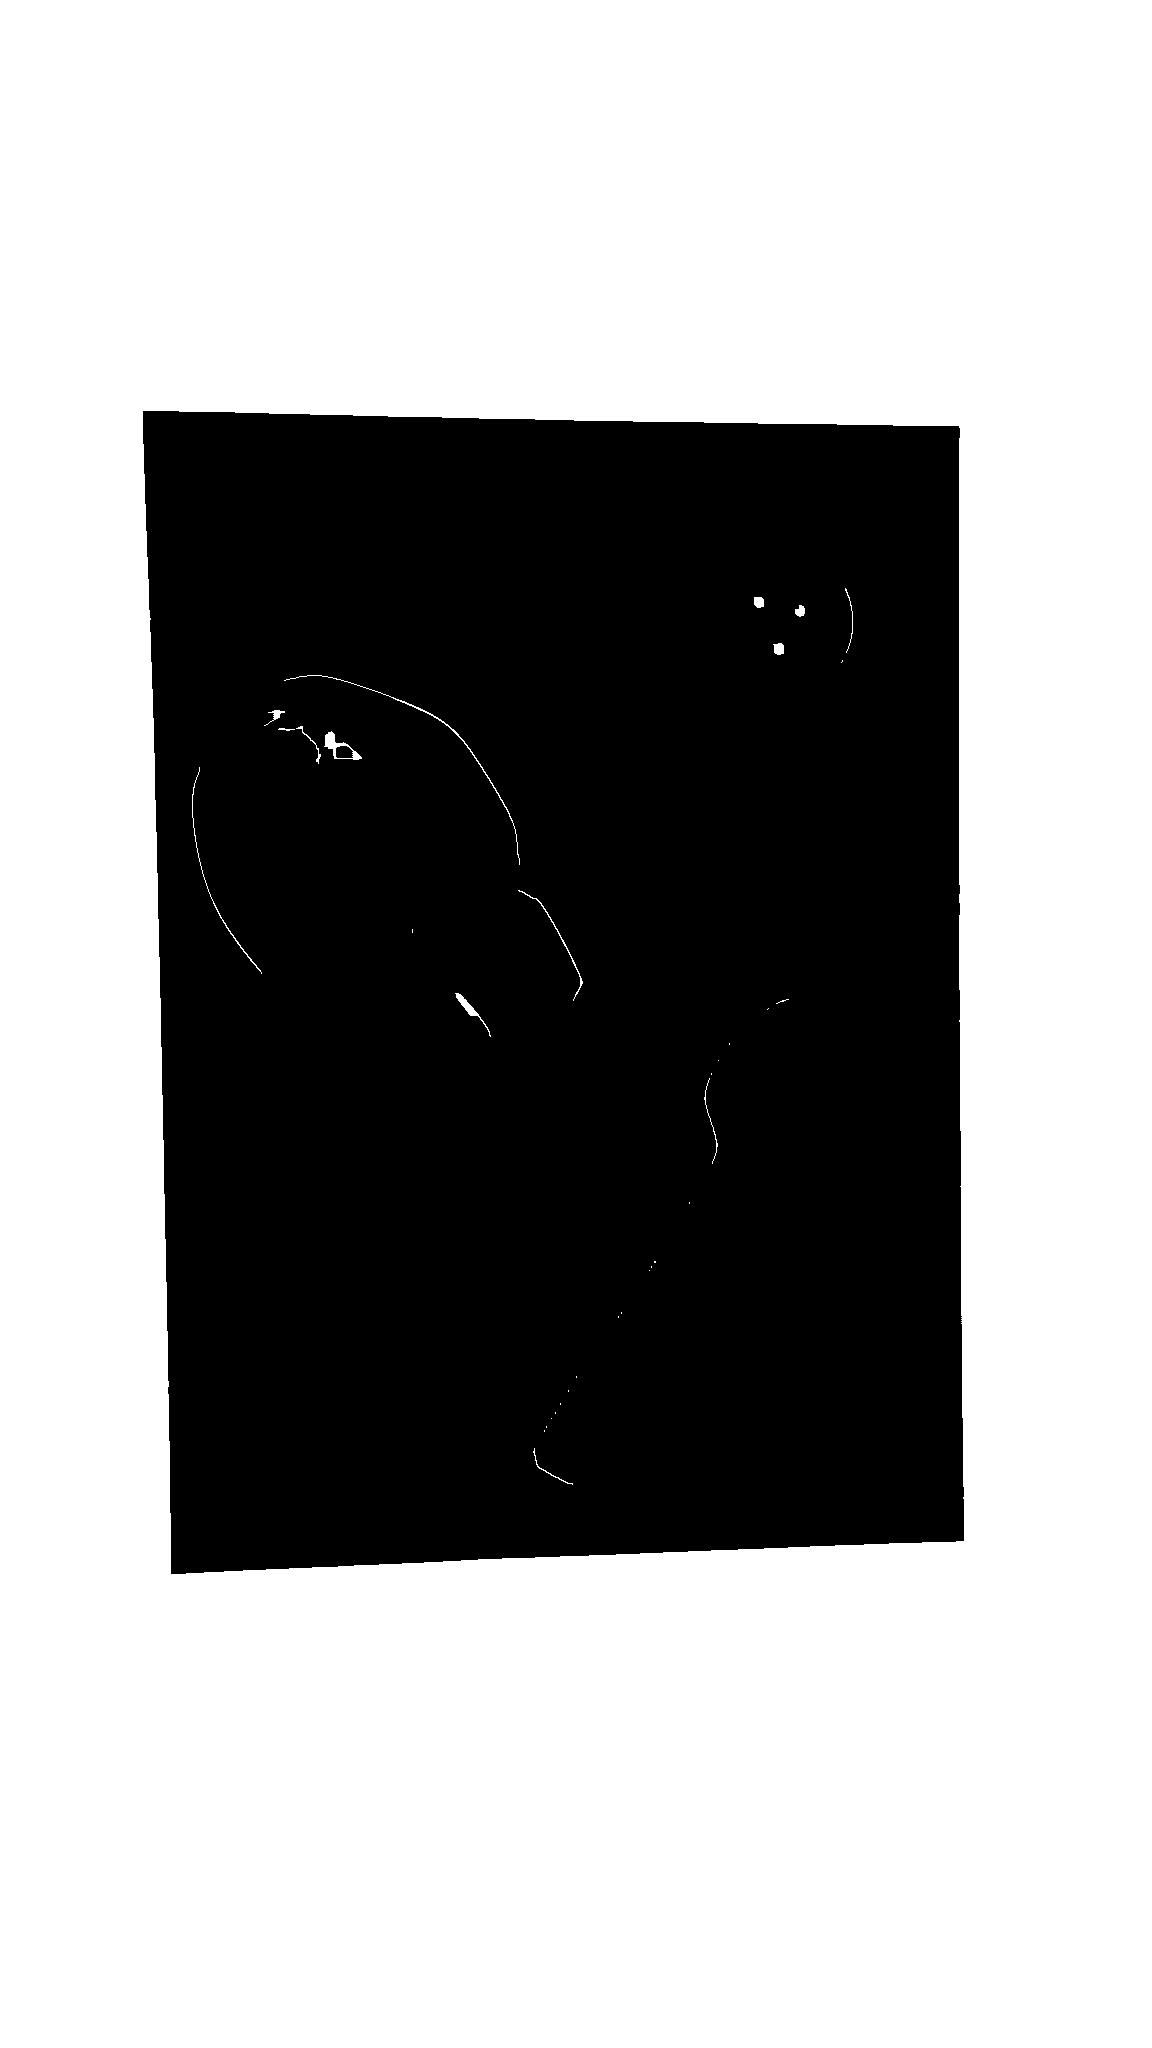
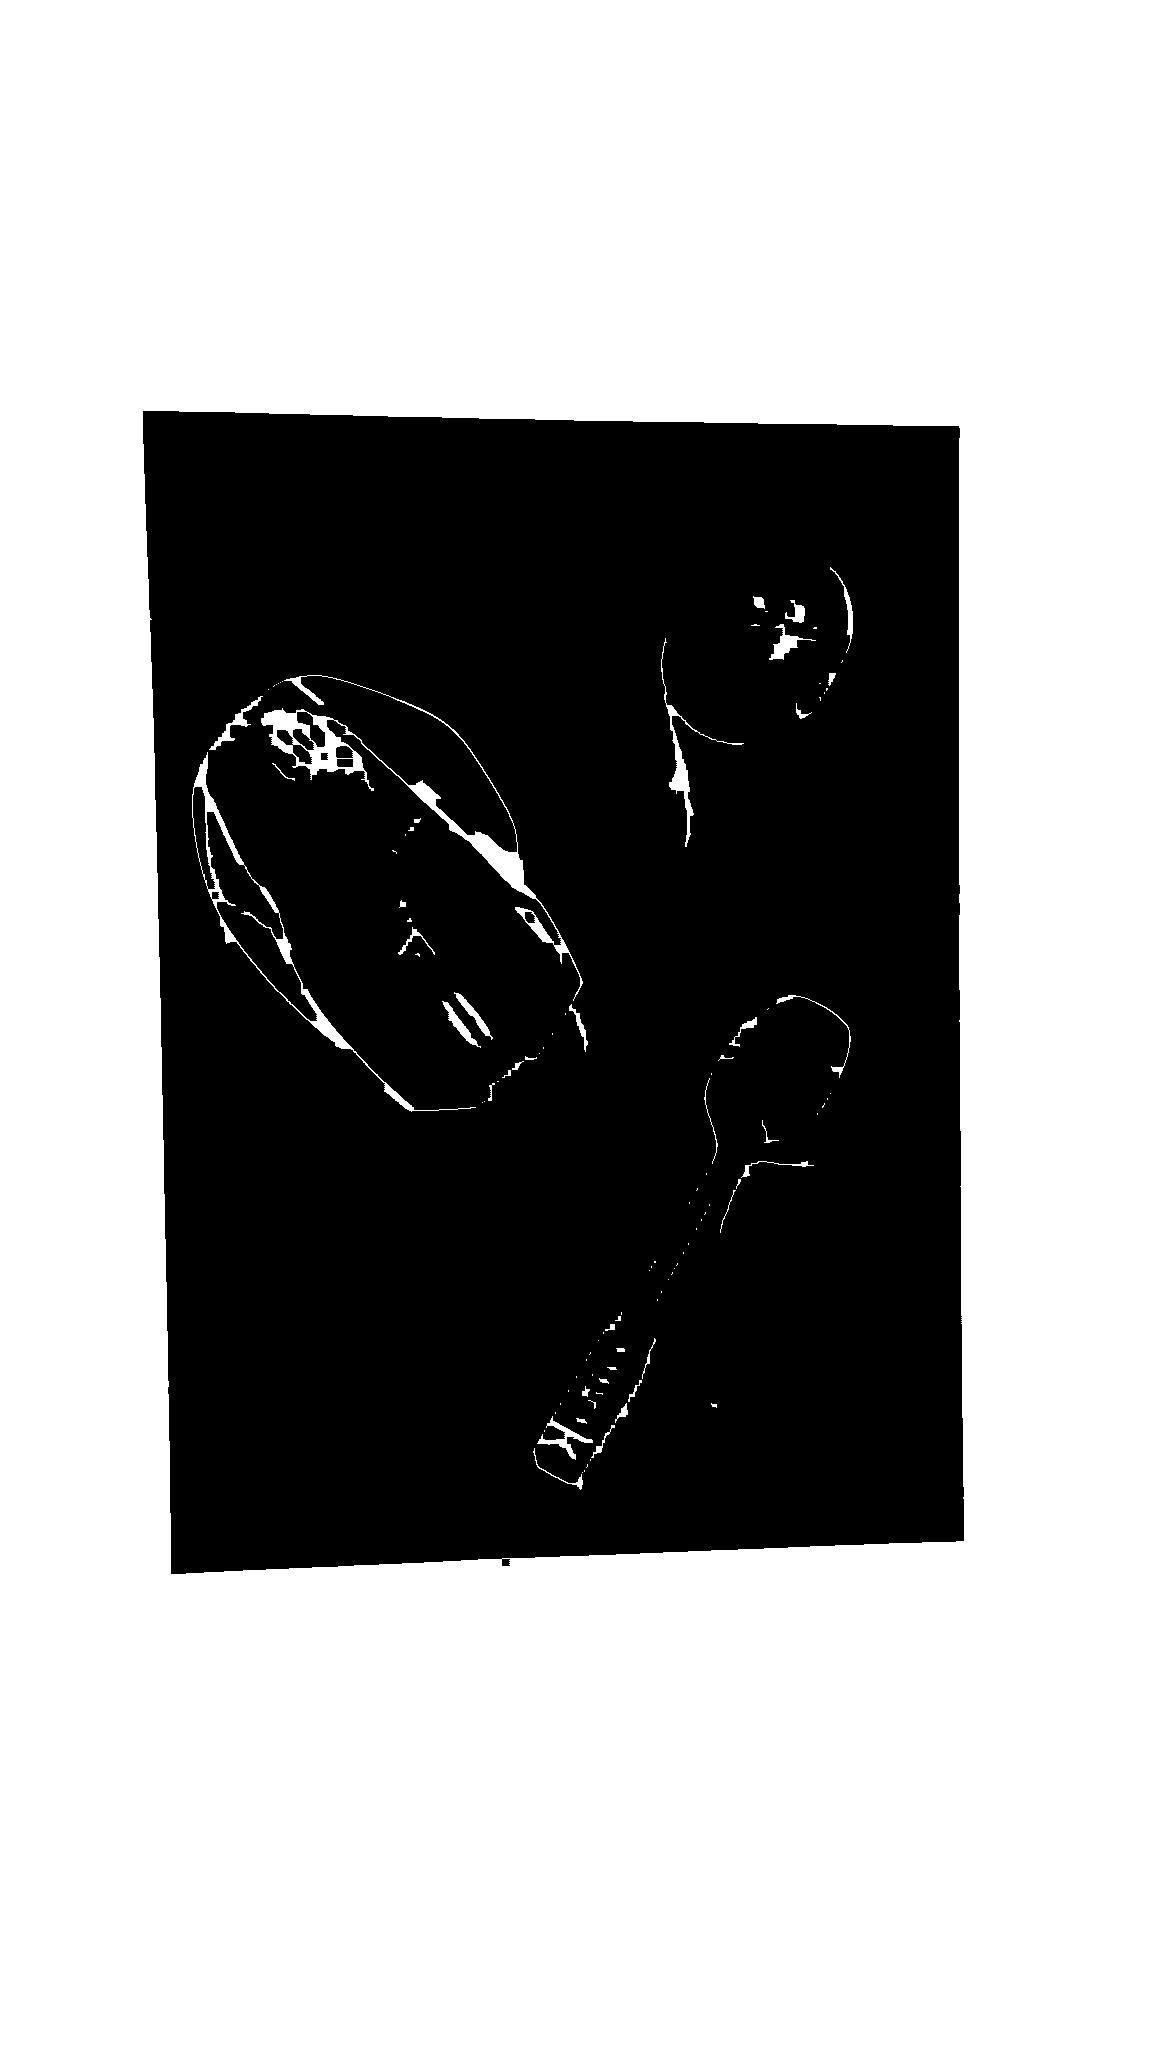
invariant (failed)

diff --git a/src/main/java/pl/ipt/ShadowRemover/ShadowRemover.java b/src/main/java/pl/ipt/ShadowRemover/ShadowRemover.java
@@ -1,0 +1,138 @@
+package pl.ipt.ShadowRemover;
+
+import pl.ipt.ImageConverter.ImageConverter;
+
+import javax.imageio.ImageIO;
+import java.awt.*;
+import java.awt.image.BufferedImage;
+import java.io.FileOutputStream;
+import java.util.Arrays;
+
+import static pl.ipt.ImageConverter.ImageConverter.IntArray2BufImg;
+
+public class ShadowRemover {
+    private BufferedImage image;
+    private int width;
+    private int height;
+    private int[] pixels;
+
+    private BufferedImage reflectance;
+
+
+    public ShadowRemover(BufferedImage image) {
+        this.image = image;
+        this.width = image.getWidth();
+        this.height = image.getHeight();
+        this.pixels = ImageConverter.BufImg2IntArray(image);
+        this.reflectance = RgbToReflectance();
+    }
+
+    public BufferedImage getImage() {
+        return image;
+    }
+
+    public void setImage(BufferedImage image) {
+        this.image = image;
+    }
+
+    public int getWidth() {
+        return width;
+    }
+
+    public void setWidth(int width) {
+        this.width = width;
+    }
+
+    public int getHeight() {
+        return height;
+    }
+
+    public void setHeight(int height) {
+        this.height = height;
+    }
+
+    public int[] getPixels() {
+        return pixels;
+    }
+
+    public void setPixels(int[] pixels) {
+        this.pixels = pixels;
+    }
+
+    public BufferedImage getReflectance() {
+        return reflectance;
+    }
+
+    public void setReflectance(BufferedImage reflectance) {
+        this.reflectance = reflectance;
+    }
+
+    public BufferedImage CalcInvariant() {
+        int[] pixelsCp = new int[pixels.length];
+        double[] pixelsInv = new double[pixels.length];
+
+//        System.arraycopy(pixels, 0, pixelsCp, 0, pixels.length);
+
+        double max = 0.0;
+        double min = 1.0;
+        double alpha = 0.9;
+
+
+        double[] pixelsRed = new double[pixels.length];
+        double[] pixelsGreen = new double[pixels.length];
+        double[] pixelsBlue = new double[pixels.length];
+        for (int i = 0; i < pixels.length; i++) {
+            Color c = new Color(pixels[i]);
+            pixelsRed[i] = Math.max(c.getRed(),1.0);
+            pixelsGreen[i] = Math.max(c.getGreen(),1.0);
+            pixelsBlue[i] = Math.max(c.getBlue(),1.0);
+
+//            pixelsInv[i] = Math.log(pixelsGreen[i]) - alpha*Math.log(pixelsBlue[i]) - (1-alpha)*Math.log(pixelsRed[i]);
+            pixelsInv[i] = Math.log(pixelsGreen[i]) - alpha*Math.log(pixelsBlue[i]) - (1.0-alpha)*Math.log(pixelsRed[i]);
+//            pixelsInv[i] = 0.5 + Math.log(pixelsGreen[i]/255) - alpha*Math.log(pixelsRed[i]/255) - (1-alpha)*Math.log(pixelsBlue[i]/255);
+//            pixelsInv[i] = 0.5 + Math.log(pixelsBlue[i]/255) - alpha*Math.log(pixelsRed[i]/255) - (1-alpha)*Math.log(pixelsGreen[i]/255);
+//            pixelsInv[i] = 0.5 + Math.log(pixelsBlue[i]/255) - alpha*Math.log(pixelsGreen[i]/255) - (1-alpha)*Math.log(pixelsRed[i]/255);
+//            pixelsInv[i] = 0.5 + Math.log(pixelsRed[i]/255) - alpha*Math.log(pixelsBlue[i]/255) - (1-alpha)*Math.log(pixelsGreen[i]/255);
+//            pixelsInv[i] = 0.5 + Math.log(pixelsRed[i]/255) - alpha*Math.log(pixelsGreen[i]/255) - (1-alpha)*Math.log(pixelsBlue[i]/255);
+
+//            pixelsInv[i] = Math.log(pixelsGreen[i]) +  Math.log(pixelsRed[i]) + Math.log(pixelsBlue[i]);
+
+//            System.out.println(0.1*Math.log(pixelsRed[i]/255));
+
+            if (pixelsInv[i] > max) max = pixelsInv[i];
+            if (pixelsInv[i] < min) min = pixelsInv[i];
+
+
+        }
+
+        for (int i = 0; i < pixels.length; i++) {
+            pixelsInv[i] = (pixelsInv[i] - min)/(max - min);
+            int grey = (int) (pixelsInv[i]*255);
+            pixelsCp[i] = new Color(grey,grey,grey).getRGB();
+        }
+        return IntArray2BufImg(pixelsCp, width, height);
+    }
+
+    private BufferedImage RgbToReflectance() {
+        int k = 0;
+        int[] reflPixels = new int[width * height];
+        for (int i = 0; i < height; i++) {
+            for (int j = 0; j < width; j++, k++) {
+                int refl = calcPixelReflectance(j, i);
+                reflPixels[k] = new Color(refl,refl,refl).getRGB();
+            }
+        }
+
+        return IntArray2BufImg(reflPixels, width, height);
+    }
+
+    private int calcPixelReflectance(int x, int y) {
+        Color c = new Color(image.getRGB(x, y));
+        int red = (int) Math.floor(c.getRed() * 0.2125);
+        int green = (int) Math.floor(c.getGreen() * 0.7154);
+        int blue = (int) Math.floor(c.getBlue() * 0.0721);
+
+        return red + green + blue;
+    }
+
+}

diff --git a/src/main/java/pl/ipt/HSLColor/HSLColor.java b/src/main/java/pl/ipt/HSLColor/HSLColor.java
@@ -1,0 +1,145 @@
+package pl.ipt.HSLColor;
+
+import java.awt.*;
+
+public class HSLColor {
+    private float h;  //hue
+    private float s;  //saturation
+    private float l;  //luminance
+
+
+    public HSLColor(float h, float s, float l) {
+        this.h = Math.min(360,Math.max(0,h));
+        this.s = Math.min(100,Math.max(0,s));
+        this.l = Math.min(100,Math.max(0,l));
+    }
+
+    public HSLColor(Color rgbColor){
+        float[] hsl = rgb2hsl(rgbColor);
+        this.h = hsl[0];
+        this.s = hsl[1];
+        this.l = hsl[2];
+    }
+
+
+
+
+    public float getH() {
+        return h;
+    }
+
+    public void setH(float h) {
+        this.h = h;
+    }
+
+    public float getS() {
+        return s;
+    }
+
+    public void setS(float s) {
+        this.s = s;
+    }
+
+    public float getL() {
+        return l;
+    }
+
+    public void setL(float l) {
+        this.l = l;
+    }
+
+    private float[] rgb2hsl(Color rgbColor){
+        float red = rgbColor.getRed();
+        float green = rgbColor.getGreen();
+        float blue = rgbColor.getBlue();
+
+        return rgb2hsl(red, green, blue);
+    }
+
+    public static float[] rgb2hsl(float r, float g, float b){
+        float h; float s; float l;
+
+        float M = Math.max(Math.max(r,g),b);
+        float m = Math.min(Math.min(r,g),b);
+
+        if (M == m)
+            {h=0;}
+        else if (M == r)
+            h = ((60 * (g - b) / (M - m)) + 360) % 360;
+        else if (M == g)
+            h = (60 * (b - r) / (M - m)) + 120;
+        else
+            h = (60 * (r - g) / (M - m)) + 240;
+
+        l = (float) ((M+m)/5.1);
+
+        if (M == m)
+            s = 0;
+        else if (l <= 50)
+            s = Math.min(100,100 * (M - m) / (M + m));
+        else
+            s = Math.min(100,100 * (M - m) / (2 - M - m));
+
+        return new float[]{h,s,l};
+    }
+
+    public static float[] hsl2rgb(float h, float s, float l){
+        if (s < 0 || s > 100){
+            return new float[]{0,0,0};
+        }
+        if (l <0 || l > 100){
+            return new float[]{0,0,0};
+        }
+
+        h /= 360.0;
+        s /= 100.0;
+        l /= 100.0;
+
+        float q = 0;
+
+        if (l < 0.5)
+            q = l * (1 + s);
+        else
+            q = (l + s) - (s * l);
+
+        float p = 2 * l - q;
+
+        float r = Math.max(0, HueToRGB(p, q, h + (1.0f / 3.0f)));
+        float g = Math.max(0, HueToRGB(p, q, h));
+        float b = Math.max(0, HueToRGB(p, q, h - (1.0f / 3.0f)));
+
+        r = Math.min(r, 1.0f);
+        g = Math.min(g, 1.0f);
+        b = Math.min(b, 1.0f);
+
+        return new float[]{r,g,b};
+    }
+
+    private static float HueToRGB(float p, float q, float h)
+    {
+        if (h < 0) h += 1;
+        if (h > 1 ) h -= 1;
+        if (6 * h < 1)
+        {
+            return p + ((q - p) * 6 * h);
+        }
+        if (2 * h < 1 )
+        {
+            return  q;
+        }
+        if (3 * h < 2)
+        {
+            return p + ( (q - p) * 6 * ((2.0f / 3.0f) - h) );
+        }
+        return p;
+    }
+
+    public float[] getRGB(){
+        return rgb2hsl(h, s, l);
+    }
+
+    public Color getColor(){
+        float[] rgb = rgb2hsl(h,s,l);
+        return new Color(rgb[0],rgb[1], rgb[2]);
+    }
+}

diff --git a/src/main/java/pl/ipt/Painter/Painter.java b/src/main/java/pl/ipt/Painter/Painter.java
@@ -223,7 +223,7 @@ public class Painter {
 
     public void applyDoubleThreshold() {
 //        applyDoubleThreshold(0.3, 0.8);
-        applyDoubleThreshold(0.4, 0.8);
+        applyDoubleThreshold(0.25, 0.25);
     }
 
     public void applyDoubleThreshold(double lowThresholdRatio, double highThresholdRatio) {
@@ -231,7 +231,6 @@ public class Painter {
 
         int highThreshold = (int) (maxRGB * highThresholdRatio);
         int lowThreshold = (int) (highThreshold * lowThresholdRatio);
-
 
         int high = new Color(highThreshold, highThreshold, highThreshold).getRGB();
         int low = new Color(lowThreshold, lowThreshold, lowThreshold).getRGB();
@@ -260,7 +259,7 @@ public class Painter {
 
     public void applyHysteresis(Integer weak, Integer strong){
         BufferedImage extended = getExtendedImage(2);
-//        int white = new Color(255, 255, 255).getRGB();
+        int white = new Color(255, 255, 255).getRGB();
 
         Stack<Point> tracked = new Stack<>();
         for (int i = 1; i < height + 1; i++) {
@@ -291,9 +290,10 @@ public class Painter {
 
         for (int i = 1; i < height + 1; i++) {
             for (int j = 1; j < width + 1; j++) {
-                if (extended.getRGB(j, i) == weak) {
-                    extended.setRGB(j, i, 0);
+                if (extended.getRGB(j, i) == strong) {
+                    extended.setRGB(j, i, white);
                 }
+                else extended.setRGB(j, i, 0);
             }
         }
 

diff --git a/src/main/java/pl/ipt/iptApp.java b/src/main/java/pl/ipt/iptApp.java
@@ -3,6 +3,7 @@ package pl.ipt;
 
 import pl.ipt.ImageProcessor.ImageProcessor;
 import pl.ipt.Painter.Painter;
+import pl.ipt.ShadowRemover.ShadowRemover;
 import pl.ipt.Triangle.Triangle;
 import pl.ipt.TriangleTexturer.TriangleTexturer;
 
@@ -165,6 +166,19 @@ public class iptApp {
             BufferedImage result = triangleTexturer.getCanvas();
             fileOutputStream = new FileOutputStream("src/main/resources/Results/13result.jpg");
             ImageIO.write(result,"jpg",fileOutputStream);
+            fileOutputStream.close();
+
+
+            ShadowRemover shadowRemover = new ShadowRemover(result);
+            BufferedImage invariant = shadowRemover.CalcInvariant();
+            fileOutputStream = new FileOutputStream("src/main/resources/Results/14Invariant.jpg");
+            ImageIO.write(invariant, "jpg", fileOutputStream);
+            fileOutputStream.close();
+
+            painter = new Painter(invariant);
+            painter.applyGaussian();
+            fileOutputStream = new FileOutputStream("src/main/resources/Results/15Gaussian.jpg");
+            ImageIO.write(painter.getImage(), "jpg", fileOutputStream);
             fileOutputStream.close();
 
             JPEGImageWriteParam jpegParams = new JPEGImageWriteParam(null);

diff --git a/src/main/java/pl/ipt/ImageConverter/ImageConverter.java b/src/main/java/pl/ipt/ImageConverter/ImageConverter.java
@@ -6,7 +6,6 @@ import java.util.Arrays;
 import java.util.List;
 
 public class ImageConverter {
-
     public static int[] BufImg2IntArray(BufferedImage image) {
         int width = image.getWidth();
         int height = image.getHeight();
@@ -31,11 +30,12 @@ public class ImageConverter {
 
     public static BufferedImage IntArray2BufImg(int[] pixels, int width, int height) {
         BufferedImage result = new BufferedImage(width, height, BufferedImage.TYPE_3BYTE_BGR);
-        WritableRaster raster = result.getRaster();
+//        WritableRaster raster = result.getRaster();
 
-        int[] ar = new int[width*height];
-        raster.getPixels(0,0,width,height,ar);
+//        int[] ar = new int[width*height];
+//        raster.getPixels(0,0,width,height,ar);
 //        raster.setPixels(0, 0, width, height, pixels);
+        result.setRGB(0,0,width,height,pixels,0,width);
         return result;
     }
 

diff --git a/src/main/java/pl/ipt/DiagonalCornerScanner/DiagonalCornerScanner.java b/src/main/java/pl/ipt/DiagonalCornerScanner/DiagonalCornerScanner.java
@@ -13,12 +13,13 @@ import java.util.List;
 
 public class DiagonalCornerScanner {
     private BufferedImage image;
-    int width;
-    int height;
+    private int width;
+    private int height;
     //    private int[] kernel;
     private int[] pixels;
     private int[] pixelNeighbours;
     private double[] pixelGravityCenterDistance;
+
     private int xStart;
     private int yStart;
     //    private int xEnd;
